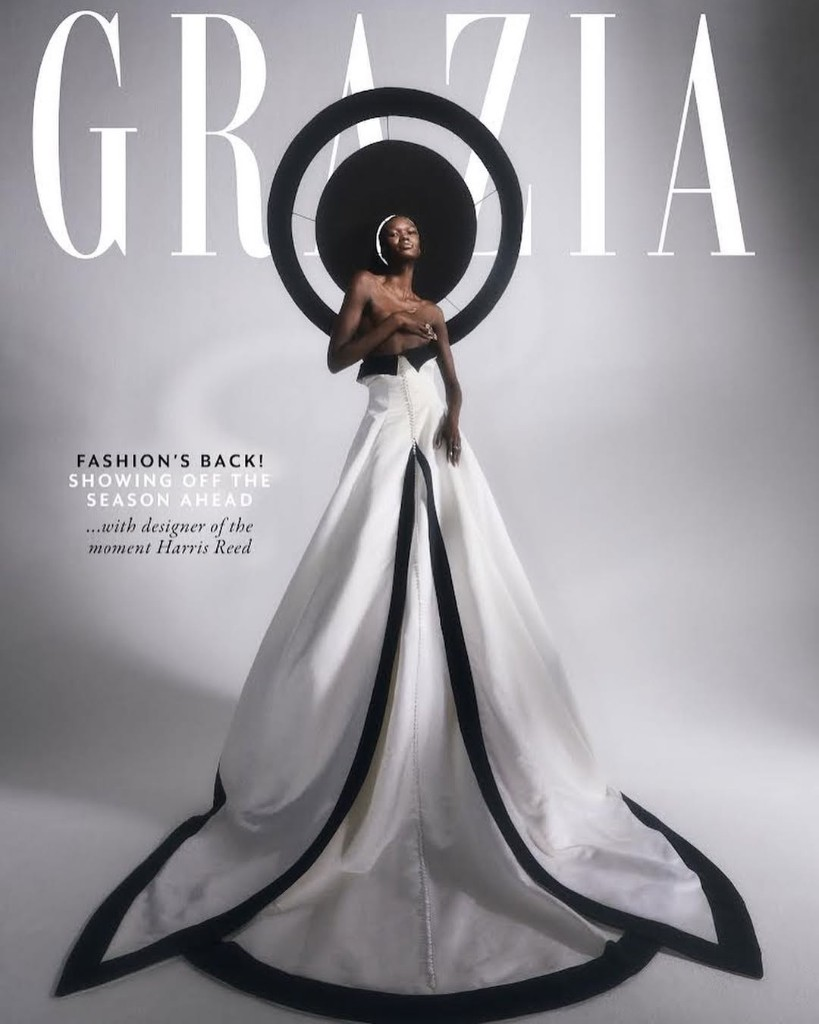
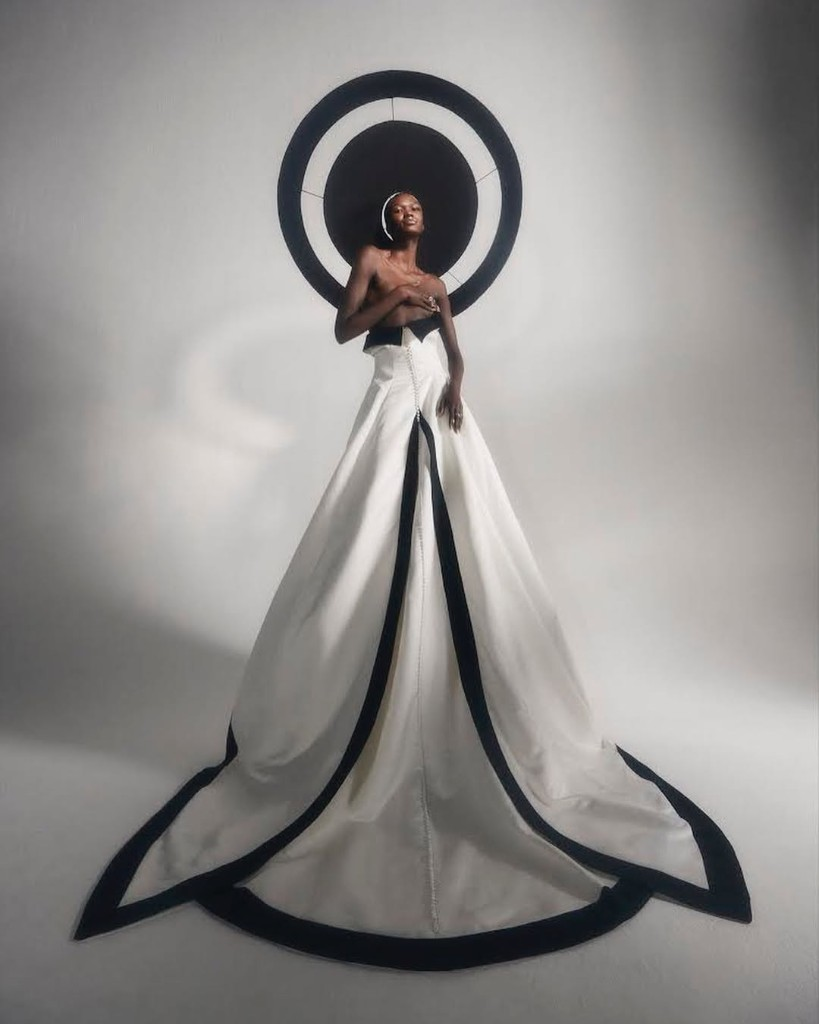
Replace hero image with brighter version.
Use the newly provided Grazia image for the home hero and reduce the dark overlay so the photo appears brighter while keeping text readability on desktop and mobile.

Made-with: Cursor

diff --git a/src/routes/index.tsx b/src/routes/index.tsx
@@ -41,7 +41,7 @@ function HomePage() {
       {/* HERO */}
       <section className="relative isolate overflow-hidden border-b border-border bg-foreground text-background">
         <div className="relative grid min-h-[88vh] grid-cols-1 lg:grid-cols-12">
-          <div className="z-10 flex flex-col justify-end bg-foreground/95 px-6 pb-16 pt-20 lg:col-span-6 lg:px-12 lg:pb-24 lg:pt-32">
+          <div className="z-10 flex flex-col justify-end bg-foreground/80 px-6 pb-16 pt-20 lg:col-span-6 lg:bg-foreground/85 lg:px-12 lg:pb-24 lg:pt-32">
             <div className="editorial-eyebrow text-background/70 fade-in">
               Runway · Brand · Income
             </div>
@@ -76,11 +76,11 @@ function HomePage() {
             <img
               src={heroImage}
               alt="Grazia cover image featuring Alek in an editorial gown"
-              className="absolute inset-0 size-full object-cover object-center opacity-90 lg:object-contain lg:object-center"
+              className="absolute inset-0 size-full object-cover object-center opacity-95 lg:object-contain lg:object-center"
               width={819}
               height={1024}
             />
-            <div className="absolute inset-0 bg-gradient-to-r from-foreground via-foreground/55 to-transparent lg:from-foreground lg:via-foreground/15 lg:to-transparent" />
+            <div className="absolute inset-0 bg-gradient-to-r from-foreground/85 via-foreground/35 to-transparent lg:from-foreground/70 lg:via-foreground/10 lg:to-transparent" />
           </div>
         </div>
 
